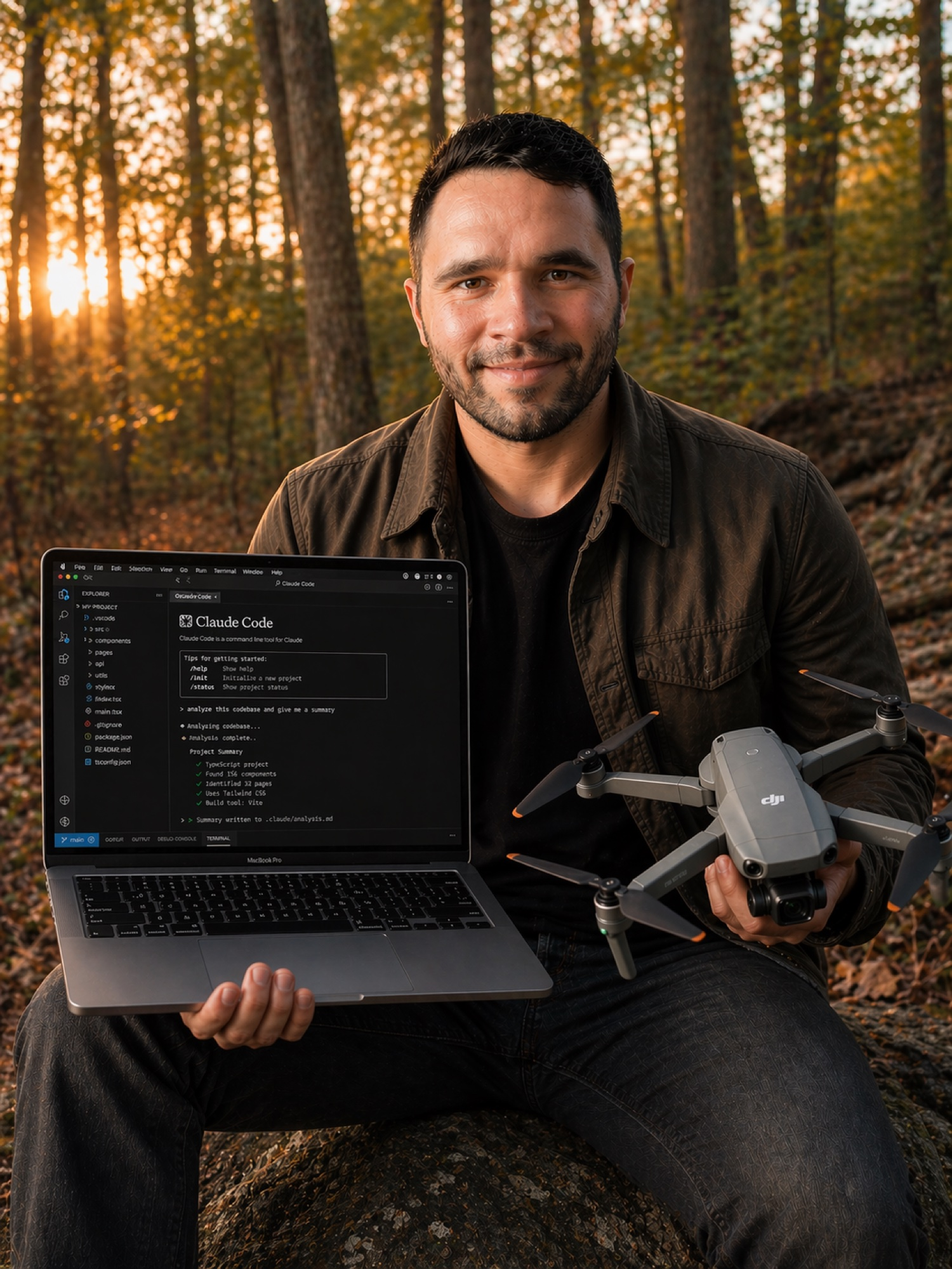
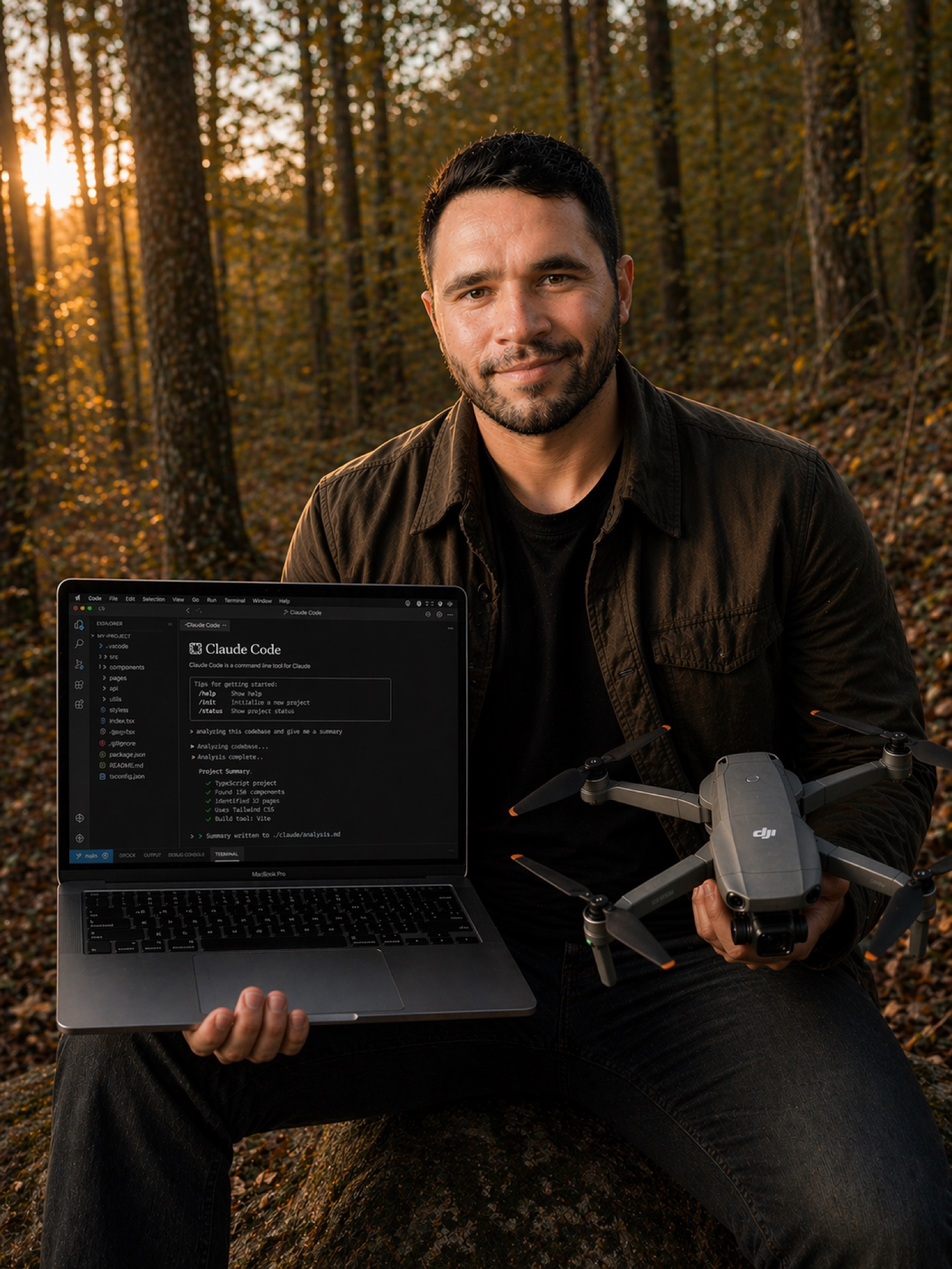
feat: swap hero to fuller-body forest shot, consolidate About to single headshot

diff --git a/src/app/about/page.tsx b/src/app/about/page.tsx
@@ -37,23 +37,14 @@ export default function AboutPage() {
               The common thread: I build things that work, fast, and I ship them to the real world. Not wireframes. Not pitch decks. Working systems that people use today.
             </p>
           </div>
-          <div className="md:col-span-2 space-y-6">
-            <div className="aspect-[3/4] rounded-xl overflow-hidden border border-white/10">
+          <div className="md:col-span-2">
+            <div className="aspect-[3/4] rounded-xl overflow-hidden border border-white/10 sticky top-24">
               <Image
                 src="/images/dean-headshot.jpg"
                 alt="Dean Diego portrait"
                 width={900}
                 height={1200}
                 className="w-full h-full object-cover"
-              />
-            </div>
-            <div className="aspect-[3/4] rounded-xl overflow-hidden border border-white/10">
-              <Image
-                src="/images/dean-field.jpg"
-                alt="Dean Diego editorial portrait"
-                width={1000}
-                height={1333}
-                className="w-full h-full object-cover object-center"
               />
             </div>
           </div>
